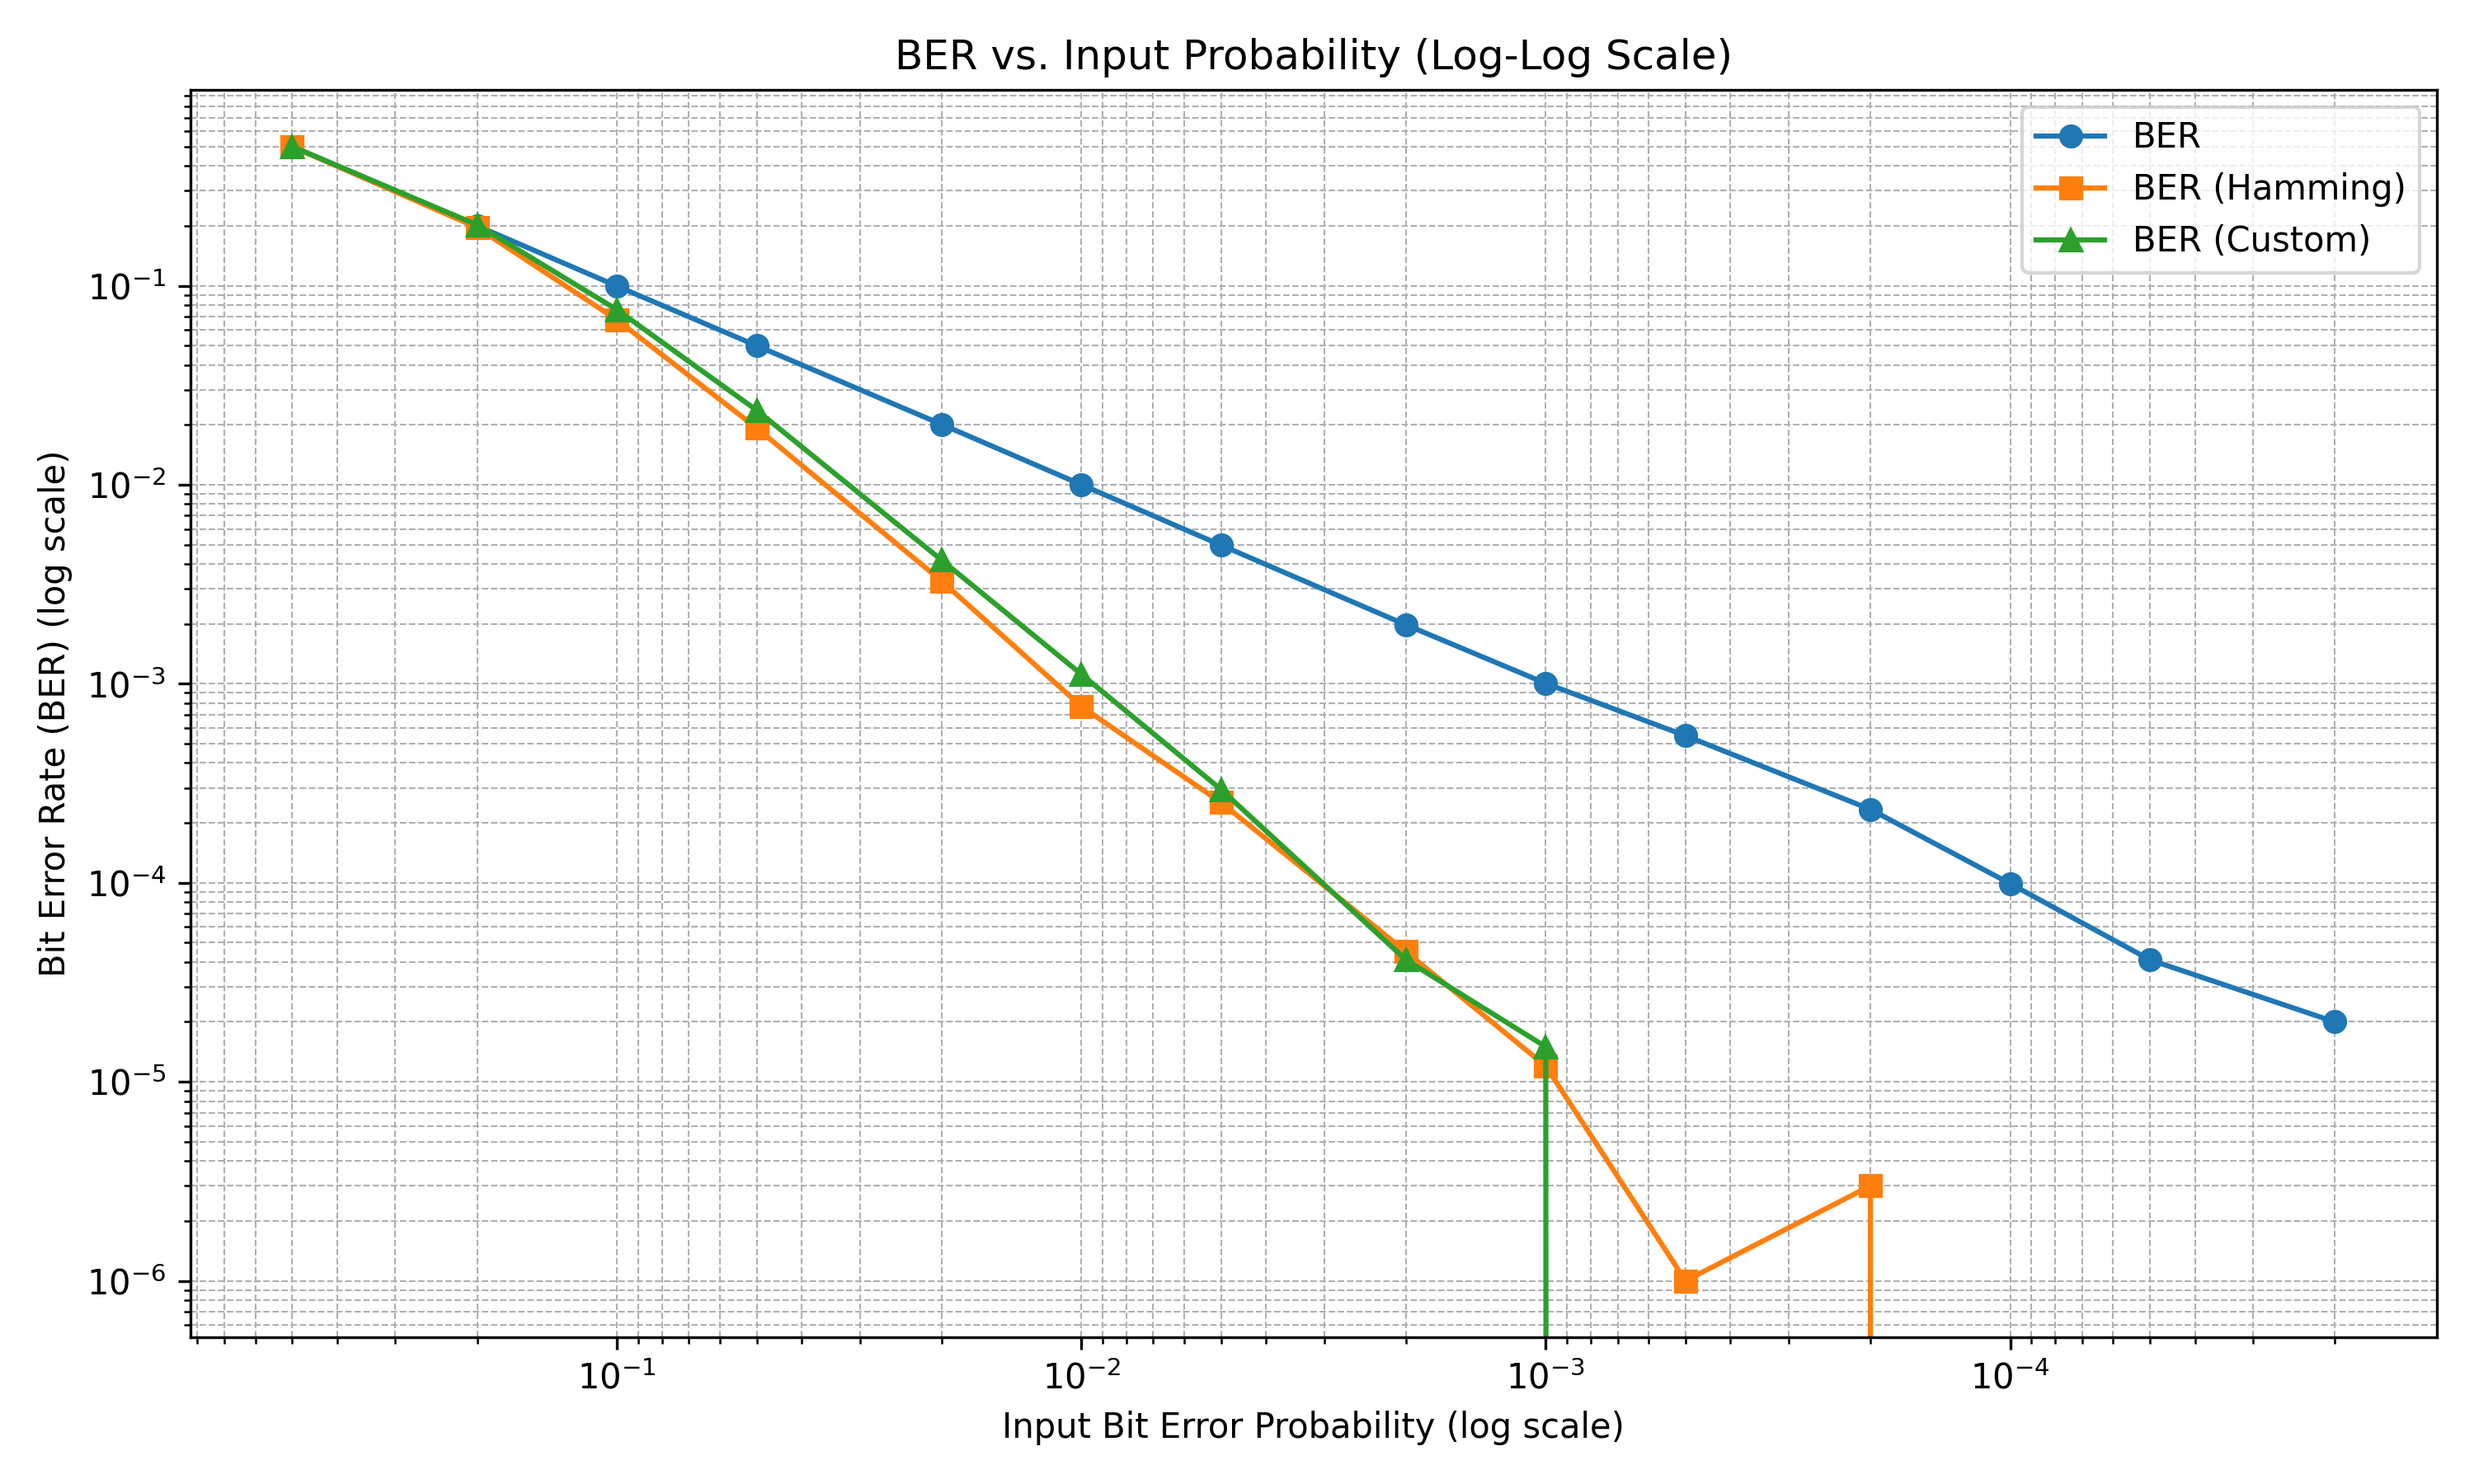
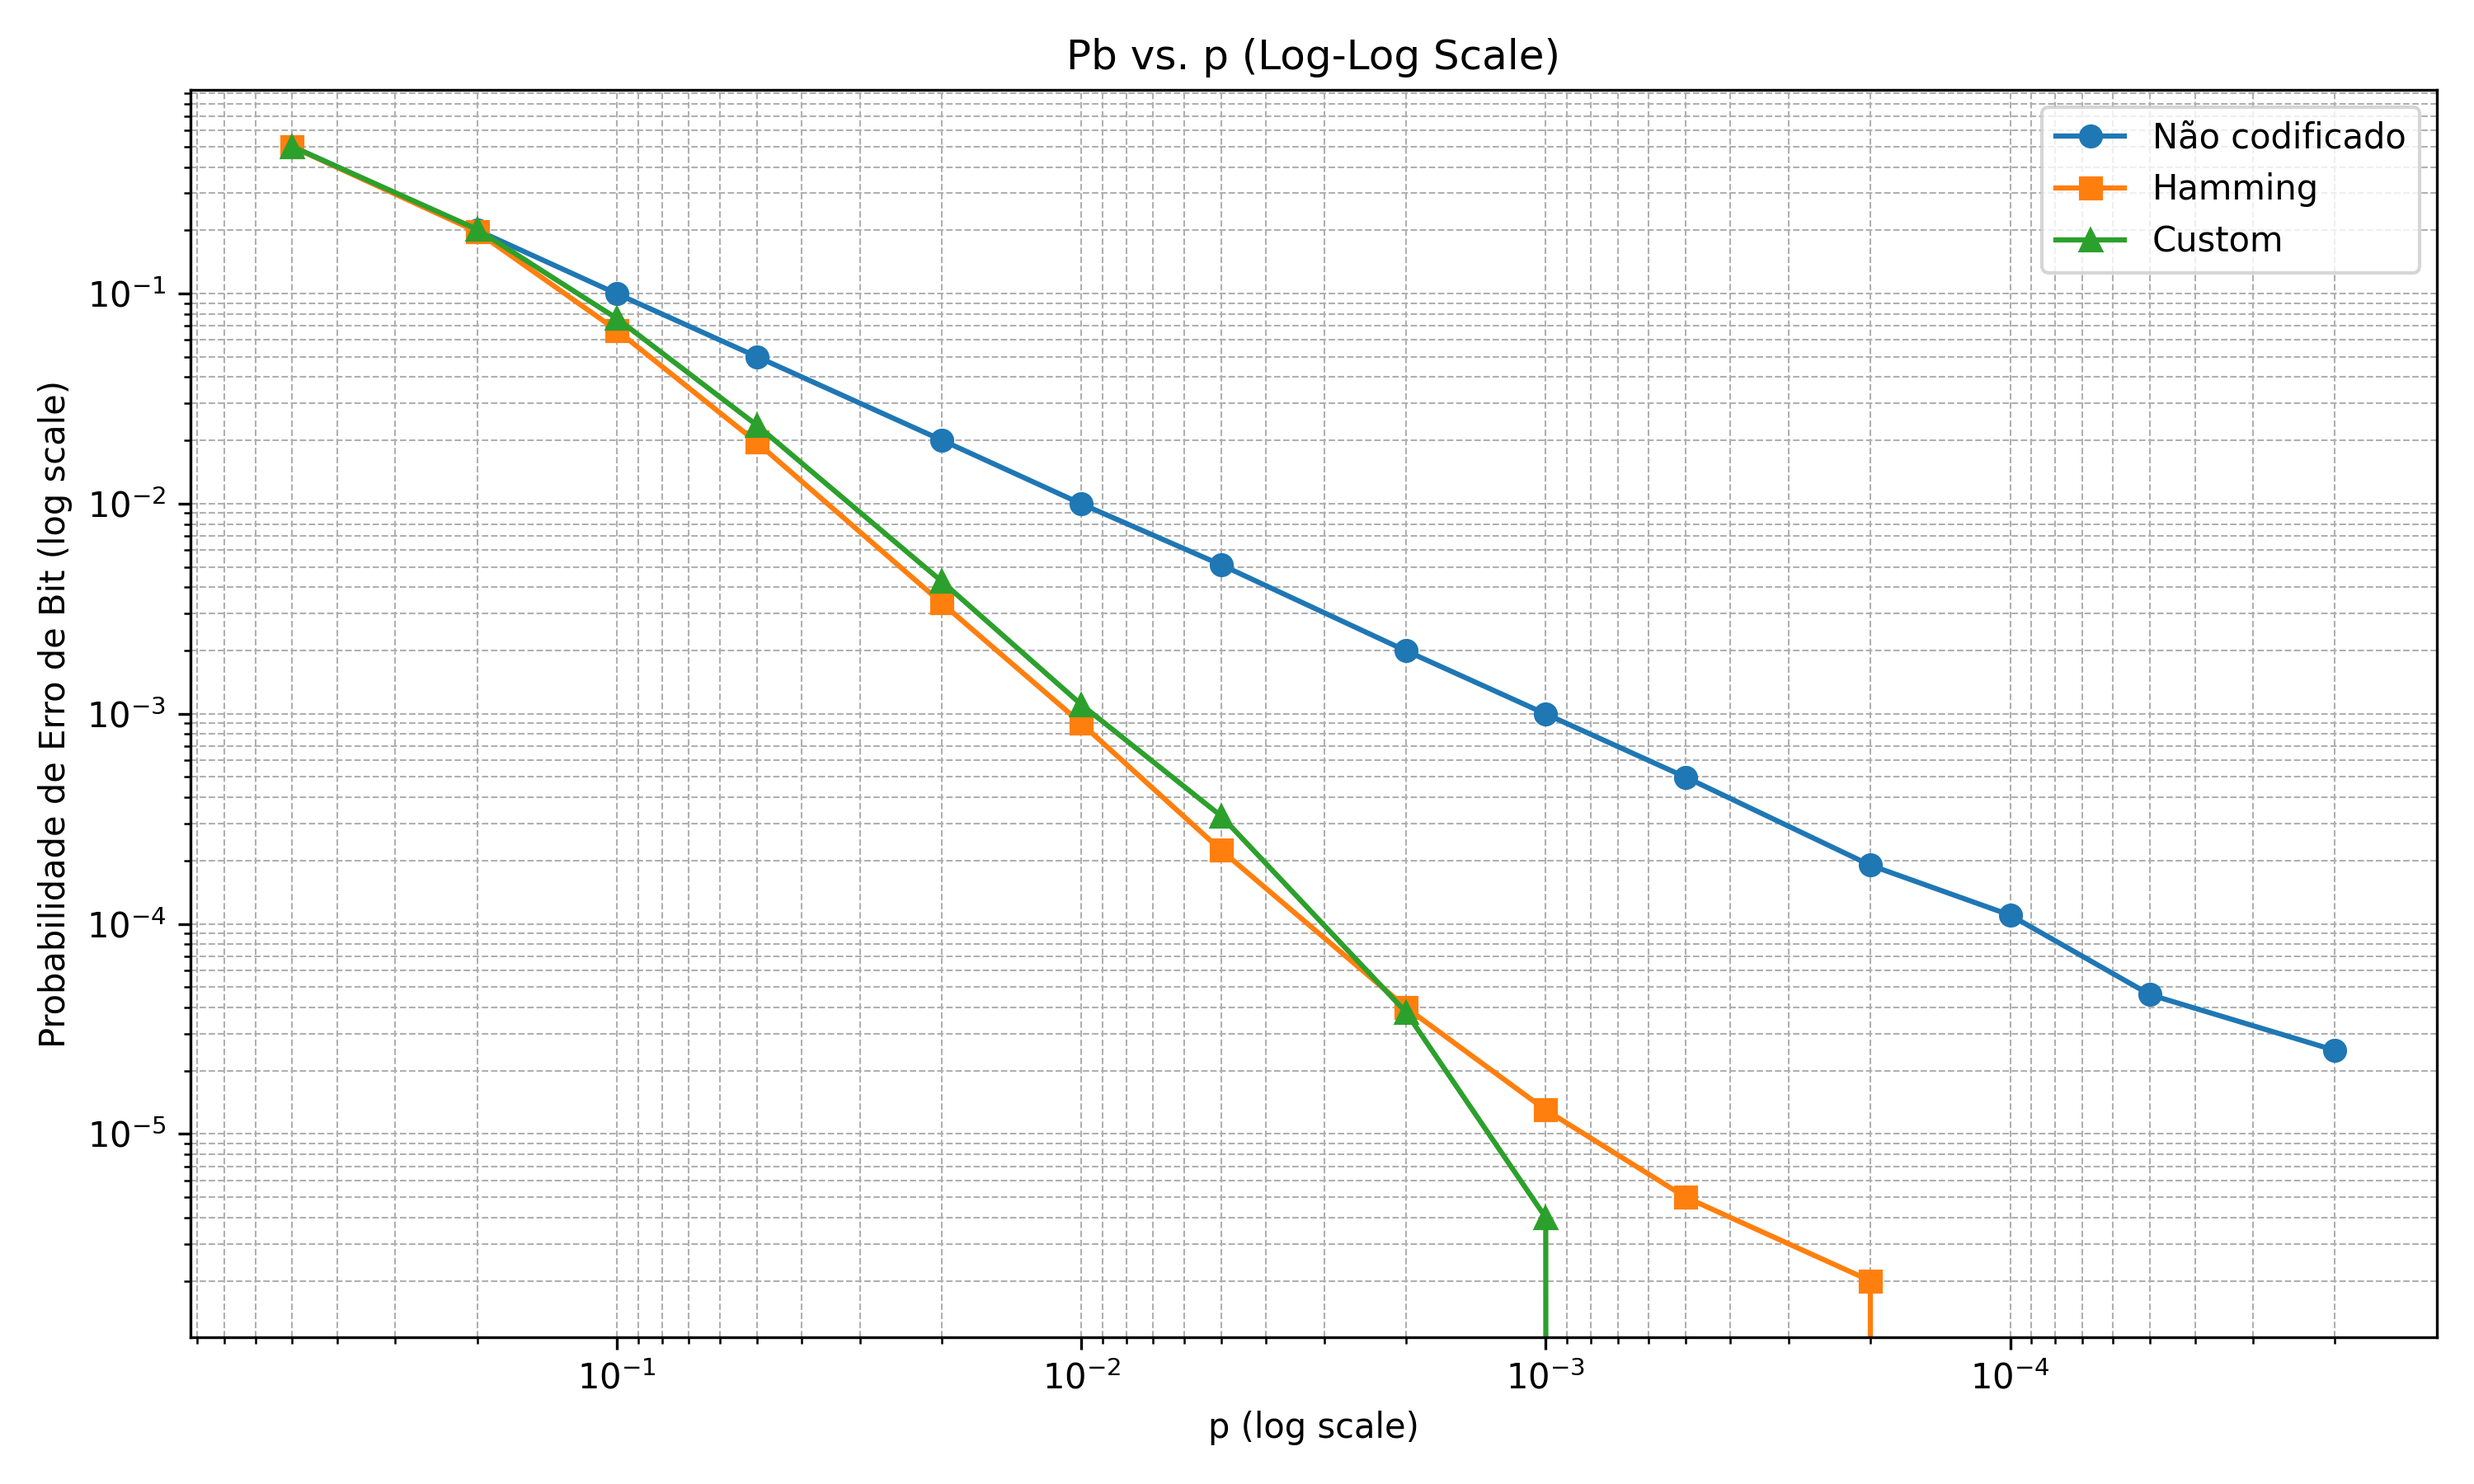
update plot labels

diff --git a/labs/plot_lab1.py b/labs/plot_lab1.py
@@ -18,13 +18,13 @@ def main():
 
     # Create the plot
     plt.figure(figsize=(10, 6))
-    plt.loglog(df["Probability"], df["BER"], marker="o", label="BER")
-    plt.loglog(df["Probability"], df["BER_Hamming"], marker="s", label="BER (Hamming)")
-    plt.loglog(df["Probability"], df["BER_Custom"], marker="^", label="BER (Custom)")
+    plt.loglog(df["Probability"], df["BER"], marker="o", label="Não codificado")
+    plt.loglog(df["Probability"], df["BER_Hamming"], marker="s", label="Hamming")
+    plt.loglog(df["Probability"], df["BER_Custom"], marker="^", label="Custom")
 
-    plt.xlabel("Input Bit Error Probability (log scale)")
-    plt.ylabel("Bit Error Rate (BER) (log scale)")
-    plt.title("BER vs. Input Probability (Log-Log Scale)")
+    plt.xlabel("p (log scale)")
+    plt.ylabel("Probabilidade de Erro de Bit (log scale)")
+    plt.title("Pb vs. p (Log-Log Scale)")
     plt.grid(True, which="both", ls="--", linewidth=0.5)
     plt.legend()
 
